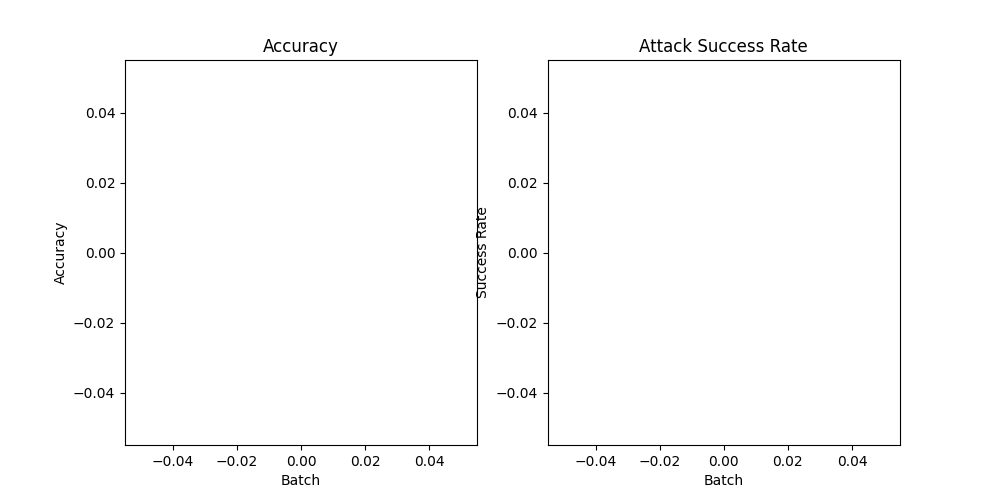
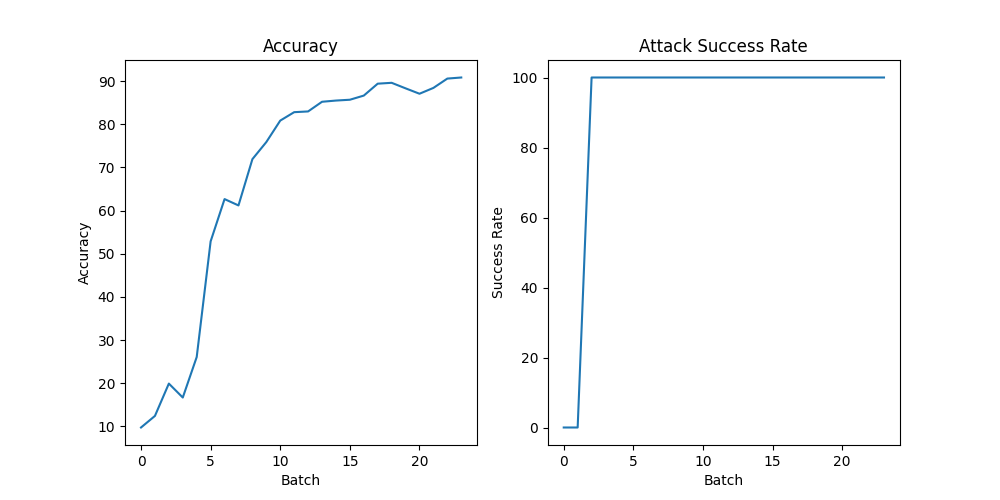
training plot without def

diff --git a/bannd.py b/bannd.py
@@ -57,14 +57,19 @@ class SimpleCNN(nn.Module):
         return x
 
 
-def train_normal(name, model, train_loader):
+def train_normal(name, model, train_loader, test_loader_clean, test_loader_poisoned):
     optimizer = torch.optim.SGD(model.parameters(), lr=0.01, momentum=0.9)
     criterion = nn.CrossEntropyLoss()
     model.to(device)
     print("Training the model normally...")
     # Training loop
-    for epoch in tqdm.tqdm(range(10)):
-        for images, labels in train_loader:
+    accuracies = []
+    attack_success_rates = []
+
+    for epoch in range(1):
+        for i, batch in tqdm.tqdm(enumerate(train_loader)):
+            model.train()
+            images, labels = batch[0], batch[1]
             images, labels = images.to(device), labels.to(device)
             # Forward pass
             outputs = model(images)
@@ -75,8 +80,19 @@ def train_normal(name, model, train_loader):
             loss.backward()
             optimizer.step()
 
-    print("Training is complete!")
+            if i %10 == 0:
+                model.eval()
+                with torch.no_grad():
+                    # Compute accuracy on clean test set
+                    accuracy = test(model, test_loader_clean)
+                    accuracies.append(accuracy)
 
+                    # Compute attack success rate on poisoned test set
+                    attack_success_rate = test(model, test_loader_poisoned)
+                    attack_success_rates.append(attack_success_rate)
+
+    print("Training is complete!")
+    plot_through_training("training_stats_no_def", accuracies, attack_success_rates)
 
     # save the model
     print("Saving the model...")
@@ -96,8 +112,9 @@ def test(model, test_loader):
             _, predicted = torch.max(outputs.data, 1)
             total += labels.size(0)
             correct += (predicted==labels).sum().item()
-
-        print("Accuracy: {}%".format(100*correct/total))
+        accuracy = 100*correct/total
+        print("Accuracy: {}%".format(accuracy))
+    return accuracy
 
 
 def train_defense(model_name, model, train_loader, test_loader_clean, test_loader_poisoned, epochs=1):
@@ -115,8 +132,8 @@ def train_defense(model_name, model, train_loader, test_loader_clean, test_loade
     attack_success_rates = []
     avg_weight_ratios = []
 
-    for epoch in tqdm.tqdm(range(epochs)):
-        for i, (images, labels, is_poisoned) in enumerate(train_loader):
+    for epoch in range(epochs):
+        for i, (images, labels, is_poisoned) in enumerate(tqdm.tqdm(train_loader)):
             model.train()
             images, labels = images.to(device), labels.to(device)
             log_outputs = torch.log_softmax(model(images), dim=1)
@@ -139,7 +156,7 @@ def train_defense(model_name, model, train_loader, test_loader_clean, test_loade
             # save_gradient_means(gradients, labels, is_poisoned)
             # similarity = lambda grads, mean: torch.norm(grads-mean, dim=1)
             # aggregated_gradients, avg_weight_poisoned = aggregate_gradients_cosine(gradients, labels, is_poisoned, plot=(i==0)) 
-            aggregated_gradients, avg_weight_poisoned = aggregate_all_params(gradients, labels, is_poisoned, plot=(i==0), save_gradients=True, name_to_save=f"batch_{i}")
+            aggregated_gradients, avg_weight_poisoned = aggregate_all_params(gradients, labels, is_poisoned, plot=(i==0), save_gradients=False, name_to_save=f"batch_{i}")
             avg_weight_ratios.append(avg_weight_poisoned)
 
             # Apply the aggregated gradients
@@ -148,17 +165,19 @@ def train_defense(model_name, model, train_loader, test_loader_clean, test_loade
                 param.grad = aggregated_gradients[name]
             optimizer.step()
             
-            model.eval()
-            # Compute accuracy on clean test set
-            accuracy = test(model, test_loader_clean)
-            accuracies.append(accuracy)
+            if i %10 == 0:
+                model.eval()
+                with torch.no_grad():
+                    # Compute accuracy on clean test set
+                    accuracy = test(model, test_loader_clean)
+                    accuracies.append(accuracy)
 
-            # Compute attack success rate on poisoned test set
-            attack_success_rate = test(model, test_loader_poisoned)
-            attack_success_rates.append(attack_success_rate)
+                    # Compute attack success rate on poisoned test set
+                    attack_success_rate = test(model, test_loader_poisoned)
+                    attack_success_rates.append(attack_success_rate)
 
     print("Training is complete!")
-    plot_through_training(accuracies, attack_success_rates, avg_weight_ratios)
+    plot_through_training("training_stats_with_def", accuracies, attack_success_rates, avg_weight_ratios)
 
     # save the model
     print("Saving the model...")
@@ -187,10 +206,10 @@ def main():
     poisoned_train_loader = DataLoader(PoisonedDataset(train_data, watermark, 0.01), batch_size=256)
     poisoned_test_loader = DataLoader(PoisonedDataset(test_data, watermark, 1.0), batch_size=256)
 
-    # # Train the model with the poisoned dataset
-    # print("Training normally on backdoored dataset")
-    # backdoored_model = SimpleCNN()
-    # train_normal("mnist_cnn_backdoor", model, poisoned_train_loader)
+    # Train the model with the poisoned dataset
+    print("Training normally on backdoored dataset")
+    backdoored_model = SimpleCNN()
+    train_normal("mnist_cnn_backdoor", model, poisoned_train_loader, test_loader, poisoned_test_loader)
     # # model.load_state_dict(torch.load("./data/models/mnist_cnn_backdoor.pth"))
     # print("Testing the model with a backdoor on the clean test set")
     # test(model, test_loader)
@@ -200,12 +219,12 @@ def main():
     print("Training with defense on backdoored dataset")
     defended_model = SimpleCNN()
 
-    train_defense("mnist_cnn_backdoor_defense", defended_model, poisoned_train_loader, test_loader, poisoned_test_loader)
+    # train_defense("mnist_cnn_backdoor_defense", defended_model, poisoned_train_loader, test_loader, poisoned_test_loader)
     # defended_model.load_state_dict(torch.load("./data/models/mnist_cnn_backdoor_defense.pth"))
-    print("Testing the model with a backdoor on the clean test set")
-    test(defended_model, test_loader)
-    print("Testing the model with a backdoor on the poisoned test set")
-    test(defended_model, poisoned_test_loader)
+    # print("Testing the model with a backdoor on the clean test set")
+    # test(defended_model, test_loader)
+    # print("Testing the model with a backdoor on the poisoned test set")
+    # test(defended_model, poisoned_test_loader)
 
 if __name__ == "__main__":
     main()

diff --git a/utils.py b/utils.py
@@ -66,7 +66,7 @@ def smooth_labels(labels, num_classes, smoothing=0.1):
     return smooth_labels
 
 
-def plot_through_training(accuracies, attack_success_rates, avg_weight_ratios=None):
+def plot_through_training(name, accuracies, attack_success_rates, avg_weight_ratios=None):
     # Plot and save figures
     num_plots = 2 if avg_weight_ratios is None else 3
     plt.figure(figsize=(num_plots*5, 5))
@@ -89,7 +89,7 @@ def plot_through_training(accuracies, attack_success_rates, avg_weight_ratios=No
         plt.xlabel('Batch')
         plt.ylabel('Ratio')
 
-    plt.savefig(f'plots/training_stats.png')
+    plt.savefig(f'plots/{name}.png')
     plt.close()
 
 
